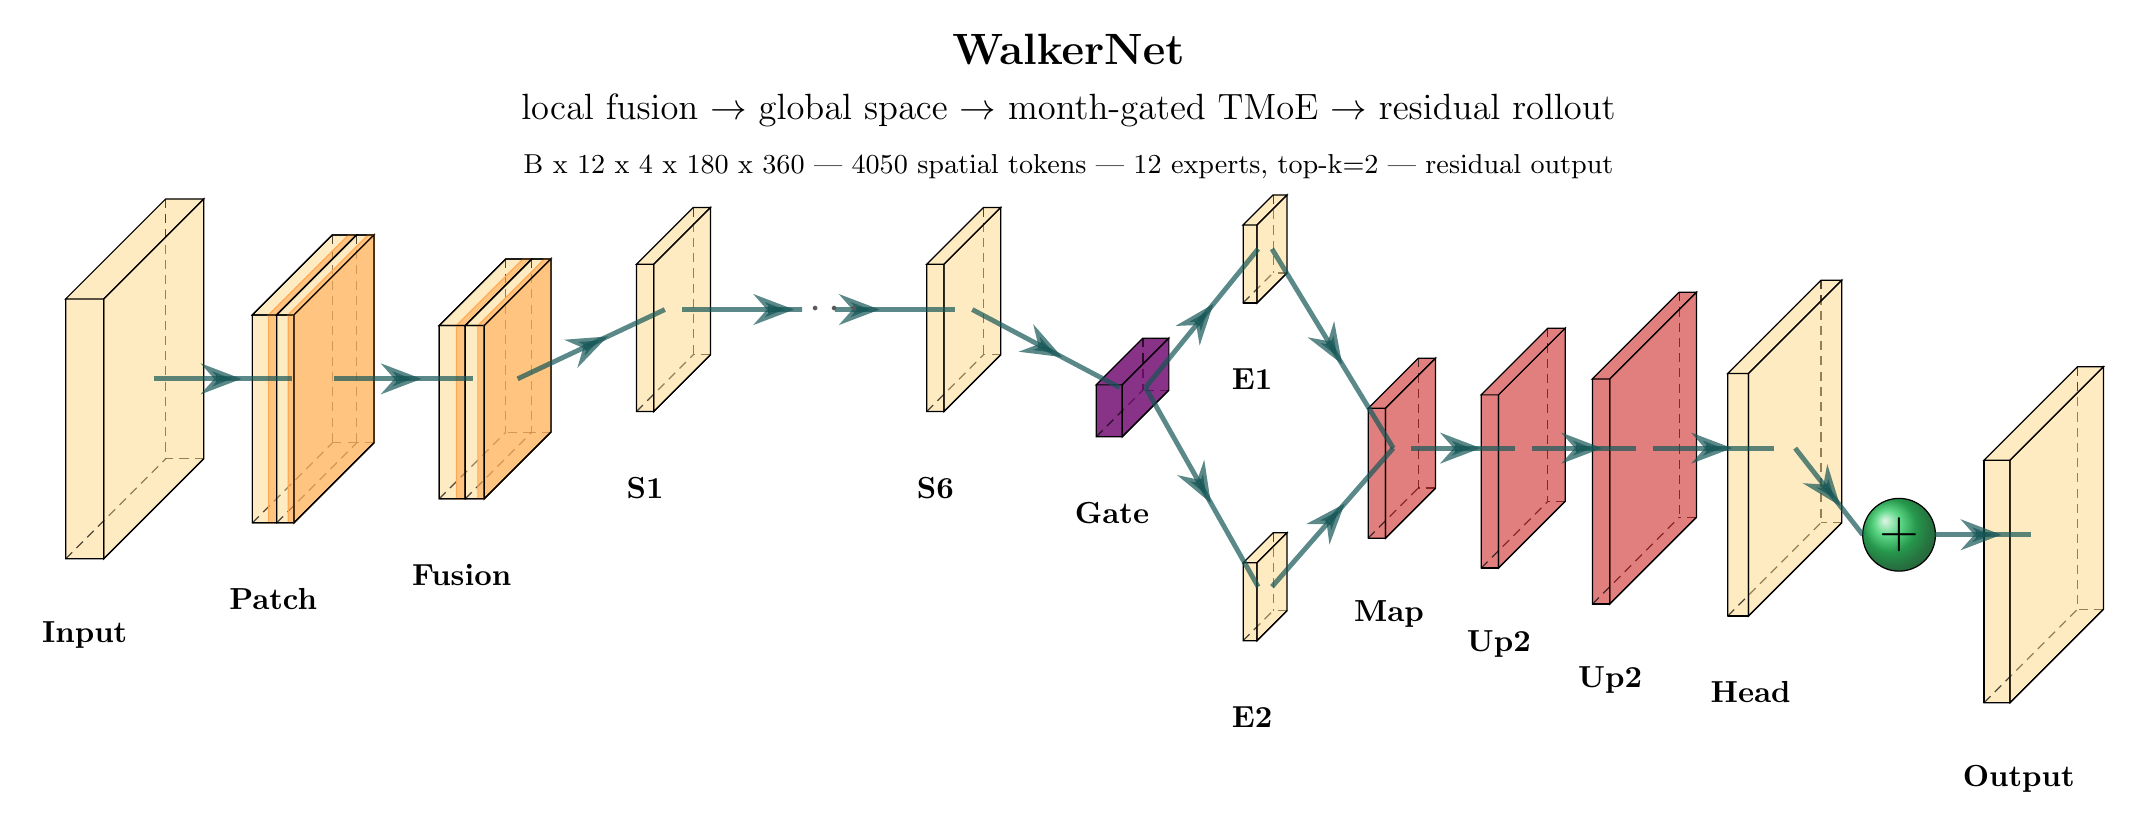
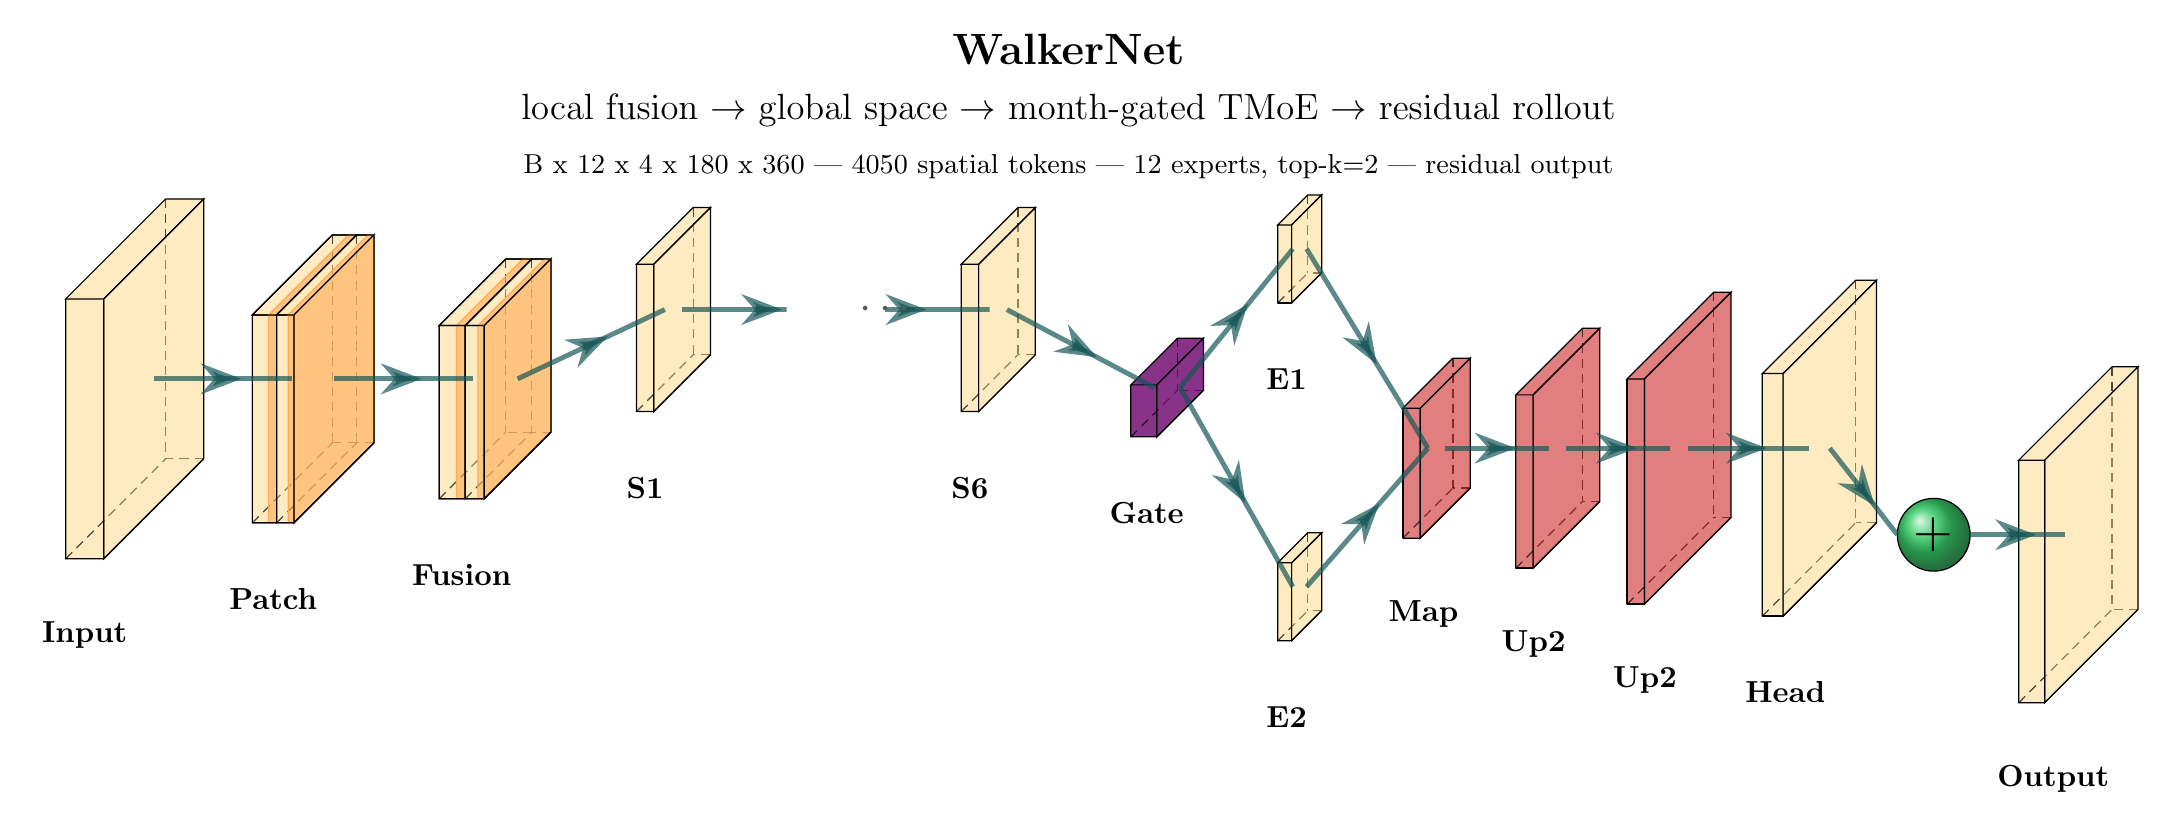
Increase spatial ellipsis gap

diff --git a/scripts/plotting/walkernet_plotneuralnet.py b/scripts/plotting/walkernet_plotneuralnet.py
@@ -67,15 +67,15 @@ def main() -> None:
             width=1.0, height=8.5, depth=8.5, caption="S1",
         ),
         to_Conv(
-            "spatial6", s_filer="4050", n_filer="256", offset="(3.15,0,0)", to="(spatial1-east)",
+            "spatial6", s_filer="4050", n_filer="256", offset="(3.55,0,0)", to="(spatial1-east)",
             width=1.0, height=8.5, depth=8.5, caption="S6",
         ),
         to_connection("fusion", "spatial1"),
         # Break the spatial-stack connection into two physical line segments.
         # The gap behind the ellipsis is deliberately empty: no green line is
         # drawn beneath the omitted S2--S5 blocks.
-        r"\coordinate (spatial-gap-l) at ($(spatial1-east)!0.44!(spatial6-west)$);",
-        r"\coordinate (spatial-gap-r) at ($(spatial1-east)!0.56!(spatial6-west)$);",
+        r"\coordinate (spatial-gap-l) at ($(spatial1-east)!0.34!(spatial6-west)$);",
+        r"\coordinate (spatial-gap-r) at ($(spatial1-east)!0.66!(spatial6-west)$);",
         r"\draw [connection] (spatial1-east) -- node[pos=0.78] {\midarrow} (spatial-gap-l);",
         r"\draw [connection] (spatial-gap-r) -- node[pos=0.22] {\midarrow} (spatial6-west);",
         r"\node[font=\Large\bfseries,text=black!65] at (spatial-gap-l -| spatial-gap-r) {$\cdots$};",

diff --git a/figures/walkernet_plotneuralnet.tex b/figures/walkernet_plotneuralnet.tex
@@ -71,7 +71,7 @@
         }
     };
 
-\pic[shift={(3.15,0,0)}] at (spatial1-east) 
+\pic[shift={(3.55,0,0)}] at (spatial1-east) 
     {Box={
         name=spatial6,
         caption=S6,
@@ -83,7 +83,7 @@
     };
 
 \draw [connection]  (fusion-east)    -- node {\midarrow} (spatial1-west);
-\coordinate (spatial-gap-l) at ($(spatial1-east)!0.44!(spatial6-west)$);\coordinate (spatial-gap-r) at ($(spatial1-east)!0.56!(spatial6-west)$);\draw [connection] (spatial1-east) -- node[pos=0.78] {\midarrow} (spatial-gap-l);\draw [connection] (spatial-gap-r) -- node[pos=0.22] {\midarrow} (spatial6-west);\node[font=\Large\bfseries,text=black!65] at (spatial-gap-l -| spatial-gap-r) {$\cdots$};
+\coordinate (spatial-gap-l) at ($(spatial1-east)!0.34!(spatial6-west)$);\coordinate (spatial-gap-r) at ($(spatial1-east)!0.66!(spatial6-west)$);\draw [connection] (spatial1-east) -- node[pos=0.78] {\midarrow} (spatial-gap-l);\draw [connection] (spatial-gap-r) -- node[pos=0.22] {\midarrow} (spatial6-west);\node[font=\Large\bfseries,text=black!65] at (spatial-gap-l -| spatial-gap-r) {$\cdots$};
 \pic[shift={(1.7,-0.9,0)}] at (spatial6-east) 
     {Box={
         name=gate,
